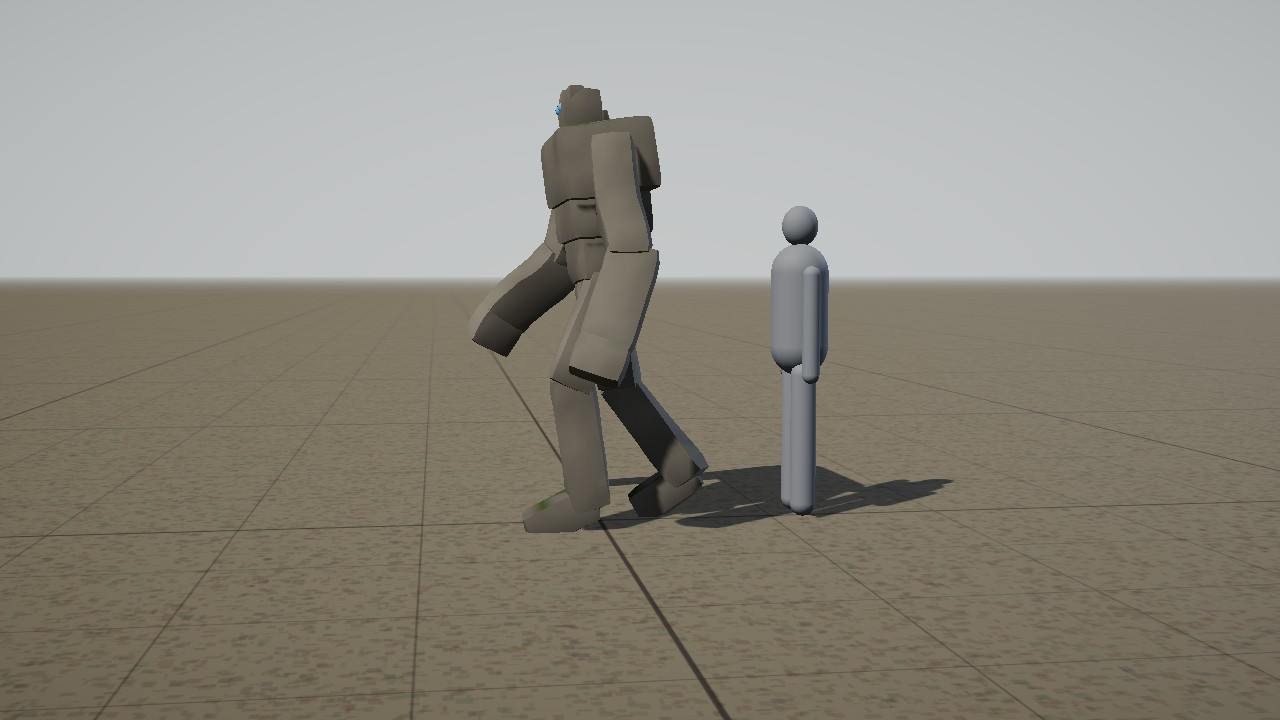
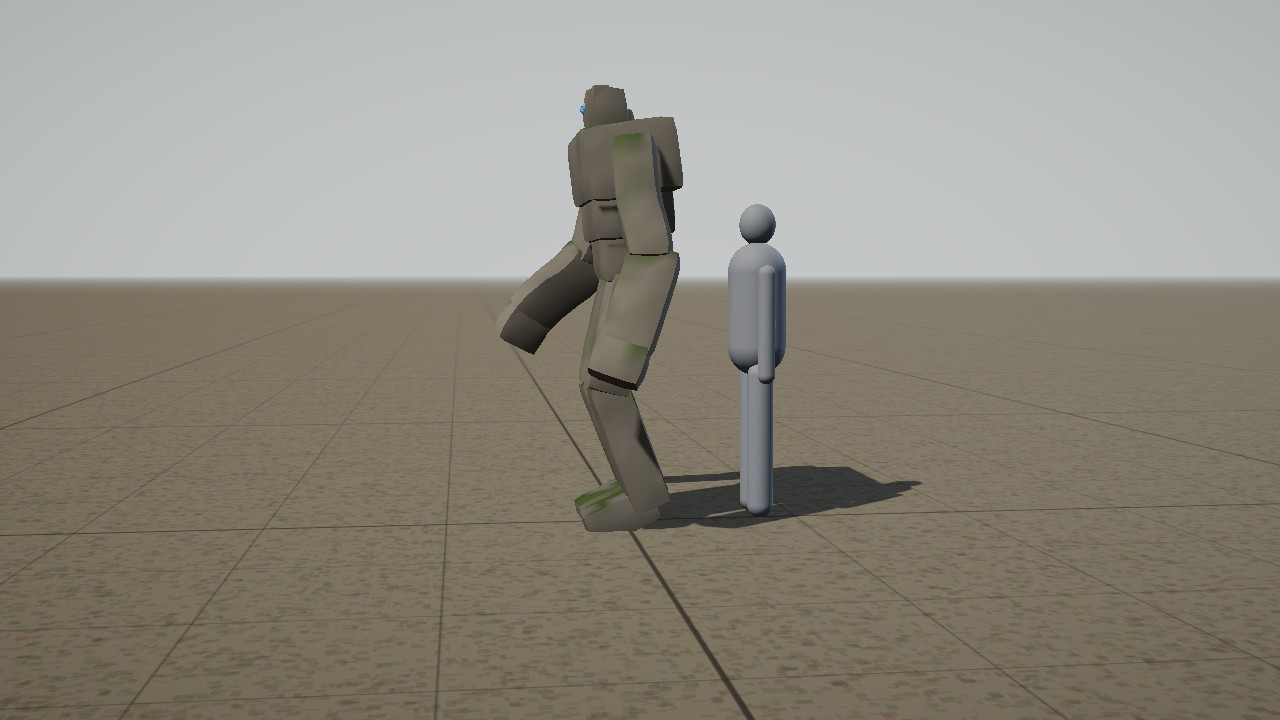
Session 1176: Cloch's failing golem (OG-073): doubled into a pair on one rig, cracks lit violet (prototype only)
Claude-Session: https://claude.ai/code/session_019L3ocdrwiR4JPo7ZYyaQ5f

Changed region(s): [[0.375, 0.1222, 0.75, 1.0], [0.3125, 0.9778, 0.3438, 1.0], [0.0312, 0.7333, 0.0625, 0.7639]]

diff --git a/docs/prototypes/levelup/creatures.js b/docs/prototypes/levelup/creatures.js
@@ -57,33 +57,35 @@ P.neck = (B, o) => {
 };
 // the head: a skull, a muzzle and a jaw; eyes, ears, horns and antlers are bits on it
 P.head = (B, o) => {
-  const S = B.g.sliders.head, len = o.len * S, r = o.r * S, base = (B.neckEnd || B.front).clone(), parent = B.neckBone || B.spineNames[B.spineNames.length - 1];
+  // `name` and `off` (Session 1176, the failing golem's second head): a further head is its own bone, set off from the first's place
+  const hn = o.name || 'head', S = B.g.sliders.head, len = o.len * S, r = o.r * S, base = (B.neckEnd || B.front).clone().add(V(...(o.off || [0, 0, 0]))), parent = B.neckBone || B.spineNames[B.spineNames.length - 1];
   const pitch = (o.pitch || 0) * DEG, dir = V(0, -Math.sin(pitch), Math.cos(pitch)), up = V(0, Math.cos(pitch), Math.sin(pitch)), s = o.s || [1, 1, 1];
-  B.bone('head', parent, base);
-  B.meat('head', base, base.clone().addScaledVector(dir, len * .42), r, r * .92, { s, tone: o.tone });
+  if (o.yaw) { dir.applyAxisAngle(UP, o.yaw * DEG); up.applyAxisAngle(UP, o.yaw * DEG); }
+  B.bone(hn, parent, base);
+  B.meat(hn, base, base.clone().addScaledVector(dir, len * .42), r, r * .92, { s, tone: o.tone });
   const m = o.muzzle; if (m) { const a = base.clone().addScaledVector(dir, len * .35), b = base.clone().addScaledVector(dir, len).addScaledVector(up, -(m.drop || 0) * len);
-    B.meat('head', a, b, m.r * S, m.r * S * (m.taper ?? .62), { s: m.s || s, tone: o.tone });
-    if (m.nose) B.bit('head', ball(m.r * S * .42, B.tone('dark'), b.clone().addScaledVector(dir, m.r * S * .35).addScaledVector(up, m.r * S * .25), .35)); }
-  if (o.jaw) { const j = base.clone().addScaledVector(dir, len * .3).addScaledVector(up, -r * .5); B.bone('jaw', 'head', j);
+    B.meat(hn, a, b, m.r * S, m.r * S * (m.taper ?? .62), { s: m.s || s, tone: o.tone });
+    if (m.nose) B.bit(hn, ball(m.r * S * .42, B.tone('dark'), b.clone().addScaledVector(dir, m.r * S * .35).addScaledVector(up, m.r * S * .25), .35)); }
+  if (o.jaw) { const j = base.clone().addScaledVector(dir, len * .3).addScaledVector(up, -r * .5); B.bone('jaw', hn, j);
     B.meat('jaw', j, base.clone().addScaledVector(dir, len * o.jaw.len).addScaledVector(up, -r * o.jaw.drop), o.jaw.r * S, o.jaw.r * S * .55, { tone: o.tone }); }
-  B.headFrame = { base, dir, up, len, r };
+  if (hn === 'head') B.headFrame = { base, dir, up, len, r };
   const at = (f, u, x) => base.clone().addScaledVector(dir, len * f).addScaledVector(up, r * u).add(V(r * x, 0, 0));
   if (o.skull) skullBits(B, o, S * (o.skull.k || 1), base, dir, up);
-  else for (const e of o.eyes || []) for (const sd of [1, -1]) B.bit('head', eye(e.r * S, e.color, at(e.f, e.up, e.out * sd)));
-  if (o.ears) for (const sd of [1, -1]) B.bit('head', ear(o.ears, S, B.tone(o.ears.tone || o.tone || 'coat'), at(o.ears.f, o.ears.up, o.ears.out * sd), sd));
-  if (o.horns) for (const sd of [1, -1]) B.bit('head', horn(o.horns, S, B.tone(o.horns.tone || 'horn'), at(o.horns.f, o.horns.up, o.horns.out * sd), sd));
-  if (o.antlers) for (const sd of [1, -1]) { const m = B.bit('head', antler(o.antlers, S, B.tone('horn'), at(o.antlers.f, o.antlers.up, o.antlers.out * sd), sd, rng(B.g.seed + (sd > 0 ? 1 : 2))));
+  else for (const e of o.eyes || []) for (const sd of [1, -1]) B.bit(hn, eye(e.r * S, e.color, at(e.f, e.up, e.out * sd)));
+  if (o.ears) for (const sd of [1, -1]) B.bit(hn, ear(o.ears, S, B.tone(o.ears.tone || o.tone || 'coat'), at(o.ears.f, o.ears.up, o.ears.out * sd), sd));
+  if (o.horns) for (const sd of [1, -1]) B.bit(hn, horn(o.horns, S, B.tone(o.horns.tone || 'horn'), at(o.horns.f, o.horns.up, o.horns.out * sd), sd));
+  if (o.antlers) for (const sd of [1, -1]) { const m = B.bit(hn, antler(o.antlers, S, B.tone('horn'), at(o.antlers.f, o.antlers.up, o.antlers.out * sd), sd, rng(B.g.seed + (sd > 0 ? 1 : 2))));
     if (o.antlers.mist) (B.mistTips ||= []).push(...m.userData.tips); }
   if (o.antlers?.mist) B.mist = { ...o.antlers.mist, tips: B.mistTips, color: B.tone(o.antlers.mist.tone || 'mist') };
-  if (o.crystals) for (const sd of [1, -1]) B.bit('head', crystals(o.crystals, S, B.tone('horn'), at(o.crystals.f, o.crystals.up, o.crystals.out * sd), sd, rng(B.g.seed + (sd > 0 ? 3 : 4))));
-  if (o.beak) B.bit('head', beak(o.beak, S, B.tone('horn'), at(1, o.beak.up || 0, 0), dir));
+  if (o.crystals) for (const sd of [1, -1]) B.bit(hn, crystals(o.crystals, S, B.tone('horn'), at(o.crystals.f, o.crystals.up, o.crystals.out * sd), sd, rng(B.g.seed + (sd > 0 ? 3 : 4))));
+  if (o.beak) B.bit(hn, beak(o.beak, S, B.tone('horn'), at(1, o.beak.up || 0, 0), dir));
   // a throat sac (the Bellthroat's): a rigid ball under the jaw that the pose fills and empties
-  if (o.sac) { const m = new THREE.Mesh(new THREE.SphereGeometry(o.sac.r * S, 24, 16), new THREE.MeshPhysicalMaterial({ color: B.tone('sac'), roughness: .25, clearcoat: .6, transmission: 0 })); m.position.copy(at(o.sac.f, -o.sac.drop, 0)); m.scale.set(1.15, .8, 1); B.bit('head', m); B.sac = m; }
-  if (o.stalks) for (const sd of [1, -1]) { const p = at(o.stalks.f, o.stalks.up, o.stalks.out * sd); B.bit('head', claw(o.stalks.r * .5, o.stalks.len, B.tone('dark'), p.clone().addScaledVector(up, -o.stalks.len), up.clone()));
-    B.bit('head', eye(o.stalks.r, o.stalks.color, p)); }
+  if (o.sac) { const m = new THREE.Mesh(new THREE.SphereGeometry(o.sac.r * S, 24, 16), new THREE.MeshPhysicalMaterial({ color: B.tone('sac'), roughness: .25, clearcoat: .6, transmission: 0 })); m.position.copy(at(o.sac.f, -o.sac.drop, 0)); m.scale.set(1.15, .8, 1); B.bit(hn, m); B.sac = m; }
+  if (o.stalks) for (const sd of [1, -1]) { const p = at(o.stalks.f, o.stalks.up, o.stalks.out * sd); B.bit(hn, claw(o.stalks.r * .5, o.stalks.len, B.tone('dark'), p.clone().addScaledVector(up, -o.stalks.len), up.clone()));
+    B.bit(hn, eye(o.stalks.r, o.stalks.color, p)); }
   // a brow (Session 927): a ridge of flesh across the skull over the eyes, grown into the head as one surface (the troll's)
-  if (o.brow) B.meat('head', at(o.brow.f, o.brow.up, -o.brow.out), at(o.brow.f, o.brow.up, o.brow.out), o.brow.r * S, o.brow.r * S, { tone: o.tone });
-  if (o.fangs) for (const sd of [1, -1]) B.bit('head', claw(o.fangs.r * S, o.fangs.len * S, B.tone('dark'), at(o.fangs.f, o.fangs.up, o.fangs.out * sd), V(0, -1, .4).normalize()));
+  if (o.brow) B.meat(hn, at(o.brow.f, o.brow.up, -o.brow.out), at(o.brow.f, o.brow.up, o.brow.out), o.brow.r * S, o.brow.r * S, { tone: o.tone });
+  if (o.fangs) for (const sd of [1, -1]) B.bit(hn, claw(o.fangs.r * S, o.fangs.len * S, B.tone('dark'), at(o.fangs.f, o.fangs.up, o.fangs.out * sd), V(0, -1, .4).normalize()));
 };
 // inclusions (Session 928): what a clear body has swallowed, seen through it (the slime's bones and rubble). Each is a rigid
 // bit on the nearest spine bone, placed from the seed inside the body (never out of it): `rubble` a flat-faced stone,
@@ -2133,6 +2135,20 @@ Object.assign(PLANS, {
     ] }
 });
 export const GOLEMS = ['golem'];
+// ── Session 1176: Cloch's failing golem (OG-073's Cloch row: the golem "doubles into a pair"). One rig, as the sheet's failing column asks:
+// the golem split down its middle into two, fused at the hip. Its chest widened to carry two upper bodies, a second head on the right
+// shoulder, set lower and turned out, beside the first moved left, and a second pair of arms from the outer shoulders, hanging wider and
+// swinging on their own beat; and the blocks cracked with only the cracks lit Cloch's violet (the kit's Cloch light, as the blight
+// boar's and the stone troll's), the four eyes lit the same ──
+Object.assign(PLANS, {
+  failinggolem: re(PLANS.golem, { name: 'Golem of Cloch (failing gate)', src: 'OG-073 (Cloch: the golem at a failing gate, doubled into a pair)', school: 'Cloch', condition: 'failing', from: 'golem',
+    bare: { blocks: { ...PLANS.golem.bare.blocks, seg: .035, jit: 6 } }, scale: 1.45, speedK: .6, palette: PLANS.golem.palette, pattern: { ...PLANS.golem.pattern, amount: .6 },
+    glow: { color: [1.4, .5, 2.4], freq: 2.6, w: .055, all: .8 },
+    parts: [...PLANS.golem.parts.flatMap(([k, o]) => k === 'spine' ? [[k, { ...o, r: [.16, .2, .27], s: [1.75, .9] }]]
+      : k === 'head' ? [[k, { ...o, off: [.15, .08, 0], yaw: 8, eyes: o.eyes.map(e => ({ ...e, color: [.72, .32, 1] })) }], [k, { ...o, name: 'head1', off: [-.21, .04, -.01], yaw: -14, eyes: o.eyes.map(e => ({ ...e, color: [.72, .32, 1] })) }]]
+      : k === 'arms' ? [[k, { ...o, out: .3 }], [k, { ...o, at: .9, out: .5, up: .02, dz: -.05, len: .78, dir: [.42, -1, -.04], bend: 16, swing: .2, phase: 1.6 }]] : [[k, o]])] })
+});
+FAILING.push('failinggolem');
 // ── Session 945: the cave troll's lashed-on armour (OG-041: scraps of plate and hide tied on with rope). Laid on its grown skin as the
 // goblin's harness is (Session 944): a dented iron plate on its chest, an iron plate over its left shoulder, a rawhide sheet across its
 // back, and three leather lashings over them, standing 1.2 cm further out. Only the OG-041 troll wears it: the trolls built from it

diff --git a/docs/backlog.md b/docs/backlog.md
@@ -483,7 +483,7 @@ Michael marked all 96 images of the intake on the review page: 63 KEEP and 33 NO
 ### L4. The gates' foes (with C's gates by school)
 - **Each school's hall and antibodies** (look and systems; OG-018, which draws §9a exactly): Tine forge-hot, Uisce drowned, Cloch fallen masonry, Scáth violet dark, Solas white light, Gaoth open to the sky; occupied gates as goblin warrens. New foes: Magma Slime, Drowned Skeleton, Frost Thing (needs a folk shape under the ice; two plans in the kit, Session 958, `frostshard` and `frostfolk`; Michael's B on DECISION #362, the folk shape, `frostfolk`; ~~its face~~ — done, Session 968: the skeleton's skull inside his head, seen through ice thinned to 0.4 over the face, `faceClear` in the kit; `creatures-frostfolk-head.jpg`, `-front.jpg`; owed: the game, after F4), Wisp and Winged Thing, which fill Gaoth, the school with no foes yet. **The Winged Thing is a plan in the kit, Session 955** (bodies builder; `creatures.js` `wingedthing`, `creatures-wingedthing.jpg`, `-fly.jpg`): a griffin of a big cat's body, an eagle's head and beak, feathered wings and a feathered tail fan, pale storm-grey; ~~eagle's talons for its forefeet~~ — done, Session 960 (`talonFore`, a hind toe on `claws.back`; `creatures-wingedthing-front.jpg`); ~~hooked, not straight~~ — done, Session 970 (`claws.hook` in the kit: each claw arches onto its point, its tip where a straight one's is; `creatures-wingedthing-foot.jpg`, from the bestiary's new `cam=foot`); ~~its folded wing's feathers fanned out sideways from the wrist~~ — done, Session 974 (a quill bone for every flight feather in the kit, turned back along the body when the wing folds, on all nine feathered fliers; `creatures-wingedthing-folded.jpg`, `creatures-craghawk-folded.jpg`, `creatures-duskeagle-folded.jpg`); ~~the folded wing a thin dark line from the side~~ — done, Session 983 (each quill also rolled about its own line so the card leans down over the flank, faces 39 degrees from facing out on average where they were 84; `creatures-wingedthing.jpg` against `creatures-wingedthing-side-before.jpg`); ~~the Dusk Eagle's ragged primaries closing like a whole wing~~ — done, Session 984 (`feathers.ragged` fans the few primaries down the flank when folded, 3.2 degrees between neighbours where the hawks' stack at 0.6; `creatures-duskeagle-perched.jpg`, `creatures-duskeagle-folded.jpg`); owed: the game (after F4). **OG-018's gargoyles are plans, Session 956** (`gargoyle` for Cloch, moss-stained stone, and `gaothgargoyle`, weathered pale, wings a quarter wider; `GARGOYLES`; `creatures-gargoyle.jpg`, `-front.jpg`, `-fly.jpg`, `creatures-gaothgargoyle.jpg`): the goblin's crouched frame in stone, horns, a tail, a stone ridge, bat wings folded up behind the shoulders by `wingRest`; the wings' stone skin drew near black, ~~fixed~~ — done, Session 959 (`wingLight`: a skin wing gives back a share of its colour as light through it; the dragon's too); owed: the game's dormant Gargoyle replaced (after F4).
 - **The classic five, dark** (look builder; OG-041): a skeleton with a notched sword and round shield, a crouched goblin with spear and hide shield, a cave troll whose hide grows moss (a Cloch troll), a slime with bones and rubble inside, a pale giant spider with egg sacs. **The cave troll is a plan in the kit, Session 926** (bodies builder; `creatures.js` `troll`, `creatures-troll.jpg`): a hunched biped, 2.2 m to the crown, moss on its stone-grey hide; OG-018's Tine and Uisce trolls as recolours and a brow on the head, Session 927 (`TROLLS`, `creatures-trolls.jpg`); ~~its lashed-on armour scraps~~ — done, Session 945 (`straps` again: iron plates on the chest and shoulder and a rawhide sheet on the back under three leather lashings, on the OG-041 troll only; `creatures-troll-front.jpg`, `-back.jpg`). **The slime is a plan, Session 928** (`slime`, with OG-018's `magmaslime` for Tine; `SLIMES`): clear, bones and rubble inside; ~~the holes through it~~ — done, Session 954 (`holes` in the kit: three tunnels cut through the flesh from flank to flank, both slimes on a 6 cm grid; `creatures-slime.jpg`, `creatures-magmaslime.jpg`). **The giant spider's thorns and egg sacs, Session 932** (`spider`: thorns up every leg segment, a clutch of silk sacs under the abdomen's tip; `creatures-spider.jpg`, `creatures-spider-back.jpg`). **The goblin is a plan, Session 933** (`goblin`, `GOBLINS`; `creatures-goblin.jpg`, `creatures-goblin-front.jpg`, `creatures-classic.jpg`): the troll's frame at half its height, long ears, a spear and a hide shield (`gear` in the kit, the first gear on a creature); ~~its scrap-leather harness~~ — done, Session 944 (`straps` in the kit: a belt, a sash and a hide shoulder scrap laid 7 mm on the grown skin, each point on the skin's own weights; `creatures-goblin-front.jpg`, `-back.jpg`). **The skeleton is a plan, Session 934** (`skeleton`, `SKELETONS`; `creatures-skeleton.jpg`, `creatures-skeleton-front.jpg`): the kit's first bare body (`bare`: its capsules drawn as bones), ribs and a pelvis, a notched sword and a round wooden shield; ~~its hip rags (cloth on a creature)~~ — done, Session 943 (`rags` in the kit: torn strips on a cord, passing to the thigh bones down their length; `creatures-skeleton-front.jpg`, `-back.jpg`); ~~a truer skull~~ — done, Session 942 (a modelled skull and mandible, 20 teeth, the drowned skeleton's eyes lit in the sockets; `creatures-skeleton-skull*.jpg`); ~~OG-018's drowned skeleton (Uisce)~~ — done, Session 935 (`drownedskeleton`, weed-hung; `creatures-drownedskeleton.jpg`). So all five of OG-041 are plans (`creatures-classic.jpg`).
-- **Failing gates change their foes** (look builder; OG-073): one rig per foe with extra limbs and broken anatomy for a failing gate, glow only at the seams. The catastrophic column is a boss tier below the dragon (Michael's 8 B; canon §5). **Solas's failing skeleton is a plan in the kit, Session 1168** (bodies builder; `creatures.js` `failingskeleton`, `FAILING`, `creatures-failingskeleton*.jpg`, `creatures-failing-solas.jpg`): the steady skeleton with two more pairs of arms, bone spurs down the back, three more ribs, and its bones cracked with only the cracks lit white-gold; ~~Gaoth's failing gargoyle~~ — done, Session 1169 (`failinggargoyle`: wings half again the Cloch gargoyle's, a second pair of clawed arms from the shoulder blades, the stone's cracks lit storm blue-white; `creatures-failinggargoyle-*.jpg`); ~~Uisce's failing slime~~ — done, Session 1174 (`failingslime`: a third bigger, pale blue-white, three crests rising off its back and rolling each on its own beat, more of the drowned inside, the veins lit sea-blue; the kit's new `crests` part; `creatures-failingslime-*.jpg`); ~~the steady golem~~ — done, Session 1175 (`golem`, `GOLEMS`: OG-018's mossy Cloch golem, the game's dressed stone, every bone a hewn block, the kit's new `bare.blocks`; `creatures-golem-*.jpg`); owed: the other three schools' failing forms (Cloch's golem doubled into a pair, from `golem`; Tine's fire elemental and Scáth's wraith, whose steady forms are not plans yet), a second pair of wings (the wing kit names its bones without a pair's index), and the game (after F4).
+- **Failing gates change their foes** (look builder; OG-073): one rig per foe with extra limbs and broken anatomy for a failing gate, glow only at the seams. The catastrophic column is a boss tier below the dragon (Michael's 8 B; canon §5). **Solas's failing skeleton is a plan in the kit, Session 1168** (bodies builder; `creatures.js` `failingskeleton`, `FAILING`, `creatures-failingskeleton*.jpg`, `creatures-failing-solas.jpg`): the steady skeleton with two more pairs of arms, bone spurs down the back, three more ribs, and its bones cracked with only the cracks lit white-gold; ~~Gaoth's failing gargoyle~~ — done, Session 1169 (`failinggargoyle`: wings half again the Cloch gargoyle's, a second pair of clawed arms from the shoulder blades, the stone's cracks lit storm blue-white; `creatures-failinggargoyle-*.jpg`); ~~Uisce's failing slime~~ — done, Session 1174 (`failingslime`: a third bigger, pale blue-white, three crests rising off its back and rolling each on its own beat, more of the drowned inside, the veins lit sea-blue; the kit's new `crests` part; `creatures-failingslime-*.jpg`); ~~the steady golem~~ — done, Session 1175 (`golem`, `GOLEMS`: OG-018's mossy Cloch golem, the game's dressed stone, every bone a hewn block, the kit's new `bare.blocks`; `creatures-golem-*.jpg`); ~~Cloch's failing golem~~ — done, Session 1176 (`failinggolem`: doubled into a pair on one rig, two heads and two pairs of arms on a widened chest, the blocks cracked and the cracks lit Cloch's violet; `P.head` takes a `name`, `off` and `yaw`; `creatures-failinggolem-*.jpg`); owed: the other two schools' failing forms (Tine's fire elemental and Scáth's wraith, whose steady forms are not plans yet), a second pair of wings (the wing kit names its bones without a pair's index), and the game (after F4).
 - **Corrupted animals by school** (look builder; OG-088): a shape change, never a recolour: a frost bear (Uisce), a crystal-spined boar and a stone troll (Cloch), a stag whose antlers breathe mist (Scáth), a dusk eagle (Gaoth). The gate-born row as silhouettes for gate interiors. Drop the sheet's *mana* and *original inhabitants* lines. **Four are plans in the kit, Session 919** (bodies builder; `creatures.js` `CORRUPTED`, `creatures-corrupted.jpg`): the frost wraith bear (Uisce), the blight boar (Cloch), the stag of shadows (Scáth), the dusk eagle (Gaoth); the frost bear's crown moved to its brow, Session 925; the stone troll (Cloch), Session 926 (`stonetroll`, from the new `troll`); ~~the stag's mist~~ — done, Session 969 (`antlers.mist` in the kit: soft violet puffs rising from every tine, looped on the stride; `creatures-shadowstag.jpg`, `-front.jpg`); ~~the mist rising in the head's frame~~ — done, Session 975 (it rises in the body's up and drifts along the body's back, whatever the head does); owed: the game (after F4).
 
 ### L5. Places

diff --git a/docs/devlog/1176.md b/docs/devlog/1176.md
@@ -1,0 +1,38 @@
+## v80 — Session 1176 — Cloch's failing golem: doubled into a pair (L4, OG-073, prototype only)
+This is the fourth of OG-073's failing forms. The sheet's Cloch row has the golem "double into a pair". The catalogue's reading of the failing column is "the same model with extra limbs and broken anatomy, which a build can make from one rig". So this is one golem split down its middle into two, fused at the hip, and not two separate golems. It grows from Session 1175's `golem` and asks nothing: Michael kept the sheet and the backlog item says what to build.
+
+- **The kit:** `P.head` takes a `name`, an `off` and a `yaw`.
+  - A second head is now its own bone, set off from the first's place and turned out.
+  - Only the head named `head` sets the head frame, which the face mask and the frozen man's thinned ice read.
+  - Every other plan builds exactly as before: its head has no name, no offset and no turn.
+- **The plan** `failinggolem` (added to `FAILING`) has `school: 'Cloch'`, `condition: 'failing'` and `from: 'golem'`.
+  - **The chest** is widened from 1.35 to 1.75 times its depth, enough to carry two upper bodies.
+  - **Two heads.** The first moves 15 cm to the left, and a second (`head1`) sits 21 cm to the right, turned 14° out.
+  - **A second pair of arms** comes from the outer shoulders. It hangs wider and swings on its own beat (phase 1.6).
+  - **The blocks are cracked**, with only the cracks lit Cloch's violet (HDR 1.4, 0.5, 2.4). That is the kit's light for Cloch, already on the blight boar and the stone troll. The four eyes are lit the same violet.
+  - **The rest:** its blocks are cut finer (3.5 cm) and sit further off true (6°), and the moss is thinner.
+- **The cracks.** The glow is read at the vertices, as it is for the slime (Session 1174). Narrow cracks (width 0.035) drew as loose violet flakes. Wide ones (0.07) drew as stripes. At a width of 0.055 and a frequency of 2.6 they read as cracks running from block to block.
+- **The check.**
+  - The failing block now counts heads and expects two lit eyes on each.
+  - Cloch has its colour test.
+  - A doubled golem must have twice the steady one's heads and pairs of arms.
+
+### Verified (headless Chromium)
+- **`creatures.check.mjs`, every plan:** 1,238 checks, all pass.
+- **`failinggolem`:**
+  - 31 bones (the steady golem has 22) and 18,228 triangles (against 5,516), built in 40 ms.
+  - Its skin weights sum to one. The genome is 154 bytes.
+  - Its feet reach their targets in the walk, the trot and the stand (0.0 cm worst).
+  - It has 2 heads and 2 pairs of arms against 1 and 1.
+  - Through every gait the extra hands stay 80.5 cm or more off the middle (the body is 47 cm) and 0.76 m or more off the ground.
+  - In the walk they swing 33 cm, out of step with the first pair.
+  - 5.3% of the vertices are lit, in Cloch's colour, and none of the steady golem's. Its 4 eyes are lit.
+- **Every other plan's head** builds as before: the full check passes, including the frozen man's face and the badger's mask.
+- **Pictures:** `creatures-failinggolem-front.jpg` and `-back.jpg` (standing), and `-side.jpg` (walking).
+### Needs eyes
+- **Whether two heads and four arms read as "a pair"** or as one golem with too many parts. The sheet's failing golem looks like two golems shouldering out of one stone.
+- **Whether the cracks should be violet** (the kit's Cloch, as on the other Cloch foes) or **the game's rune-blue**. OG-073's catastrophic golem has blue light in its cracks.
+- **Owed:**
+  - the steady forms of Tine's fire elemental and Scáth's wraith, then their failing forms;
+  - a second pair of wings for the gargoyle;
+  - the game, after F4.

diff --git a/docs/devlog/1175.md b/docs/devlog/1175.md
@@ -27,7 +27,7 @@ Session 1174 left three of OG-073's failing forms owed: Tine's fire elemental, C
   - Moss covers 14.1% of the stone.
   - Nothing is lit but its 2 eyes, which are blue.
 - **The skeleton's shafts** are unchanged: its checks pass as before.
-- **Pictures:** `creatures-golem-front.jpg`, `-side.jpg` (walking) and `-back.jpg` (standing). The man beside it is the stage's 1.75 m figure.
+- **Pictures:** `creatures-golem-front.jpg` and `-back.jpg` (standing), and `-side.jpg` (walking). The man beside it is the stage's 1.75 m figure.
 ### Needs eyes
 - **Whether it should keep the game's X of rune-light on its chest.** It is left off here, so that light belongs to a failing gate.
 - **Whether its head is too small** for 2.6 m of stone. It matches the game's golem.
